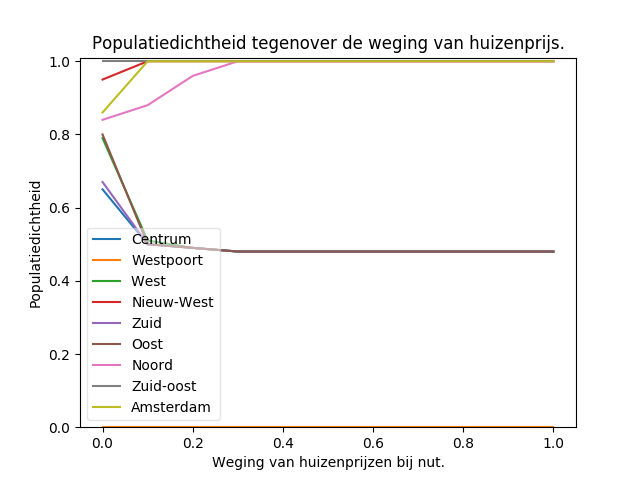
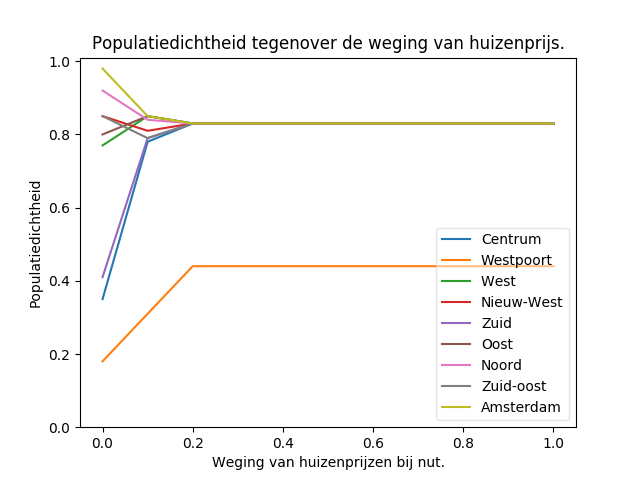
laatste aanpassingen

Changed region(s): [[0.125, 0.125, 0.875, 0.9062], [0.6875, 0.625, 0.7188, 0.7188], [0.6875, 0.75, 0.7188, 0.8125]]

diff --git a/Code/model.py b/Code/model.py
@@ -1,17 +1,18 @@
 '''Class that will be used to house the model'''
 from Code import agent
+import copy
 
 
 class Model():
     def __init__(self, sizes, ratio):
         '''Initialize model with given specifications.'''
         self.neighborhoods = [[] for i in range(len(sizes))]
-        self.ratio = ratio
-        self.max = sizes
+        self.ratio = copy.copy(ratio)
+        self.max = copy.copy(sizes)
         self.zeros = []
         self.ones = []
-        self.fill_neighborhoods(ratio, sizes)
         self.density = [r[0] + r[1] for r in ratio]
+        self.fill_neighborhoods(ratio, sizes)
 
     def fill_neighborhoods(self, ratio, sizes):
         '''Fill the neighborhoods according to specified agent ratio.'''
@@ -21,6 +22,7 @@ class Model():
             self.zeros.append(numberTypeZero)
             self.ones.append(numberTypeOne)
             self.fill_neighborhood(numberTypeZero, numberTypeOne, i)
+        self.update(list(range(len(self.neighborhoods))))
 
     def fill_neighborhood(self, zeros, ones, neighborhoodID):
         '''Fills a single neighborhood with zeros and ones according to
@@ -33,6 +35,12 @@ class Model():
     def update(self, n_IDs):
         '''updates ratios and density specs of model after switch'''
         for n_ID in n_IDs:
-            self.ratio[n_ID][0] = self.zeros[n_ID] / self.max[n_ID]
-            self.ratio[n_ID][1] = self.ones[n_ID] / self.max[n_ID]
-            self.density[n_ID] = self.ratio[n_ID][0] + self.ratio[n_ID][1]
+            nr_agents = self.zeros[n_ID] + self.ones[n_ID]
+            if nr_agents > 0:
+                self.ratio[n_ID][0] = self.zeros[n_ID] / nr_agents
+                self.ratio[n_ID][1] = self.ones[n_ID] / nr_agents
+                self.density[n_ID] = nr_agents / self.max[n_ID]
+            else:
+                self.ratio[n_ID][0] = 0.5
+                self.ratio[n_ID][1] = 0.5
+                self.density[n_ID] = 0

diff --git a/main.py b/main.py
@@ -8,6 +8,7 @@ def main():
                       dtype=str,
                       delimiter=',',
                       skiprows=2)
+    data = data[:-1]
     cap, r, wijken = prep(data)
     cap /= 100
     housingp = np.linspace(0, 1, num=11, endpoint=True)
